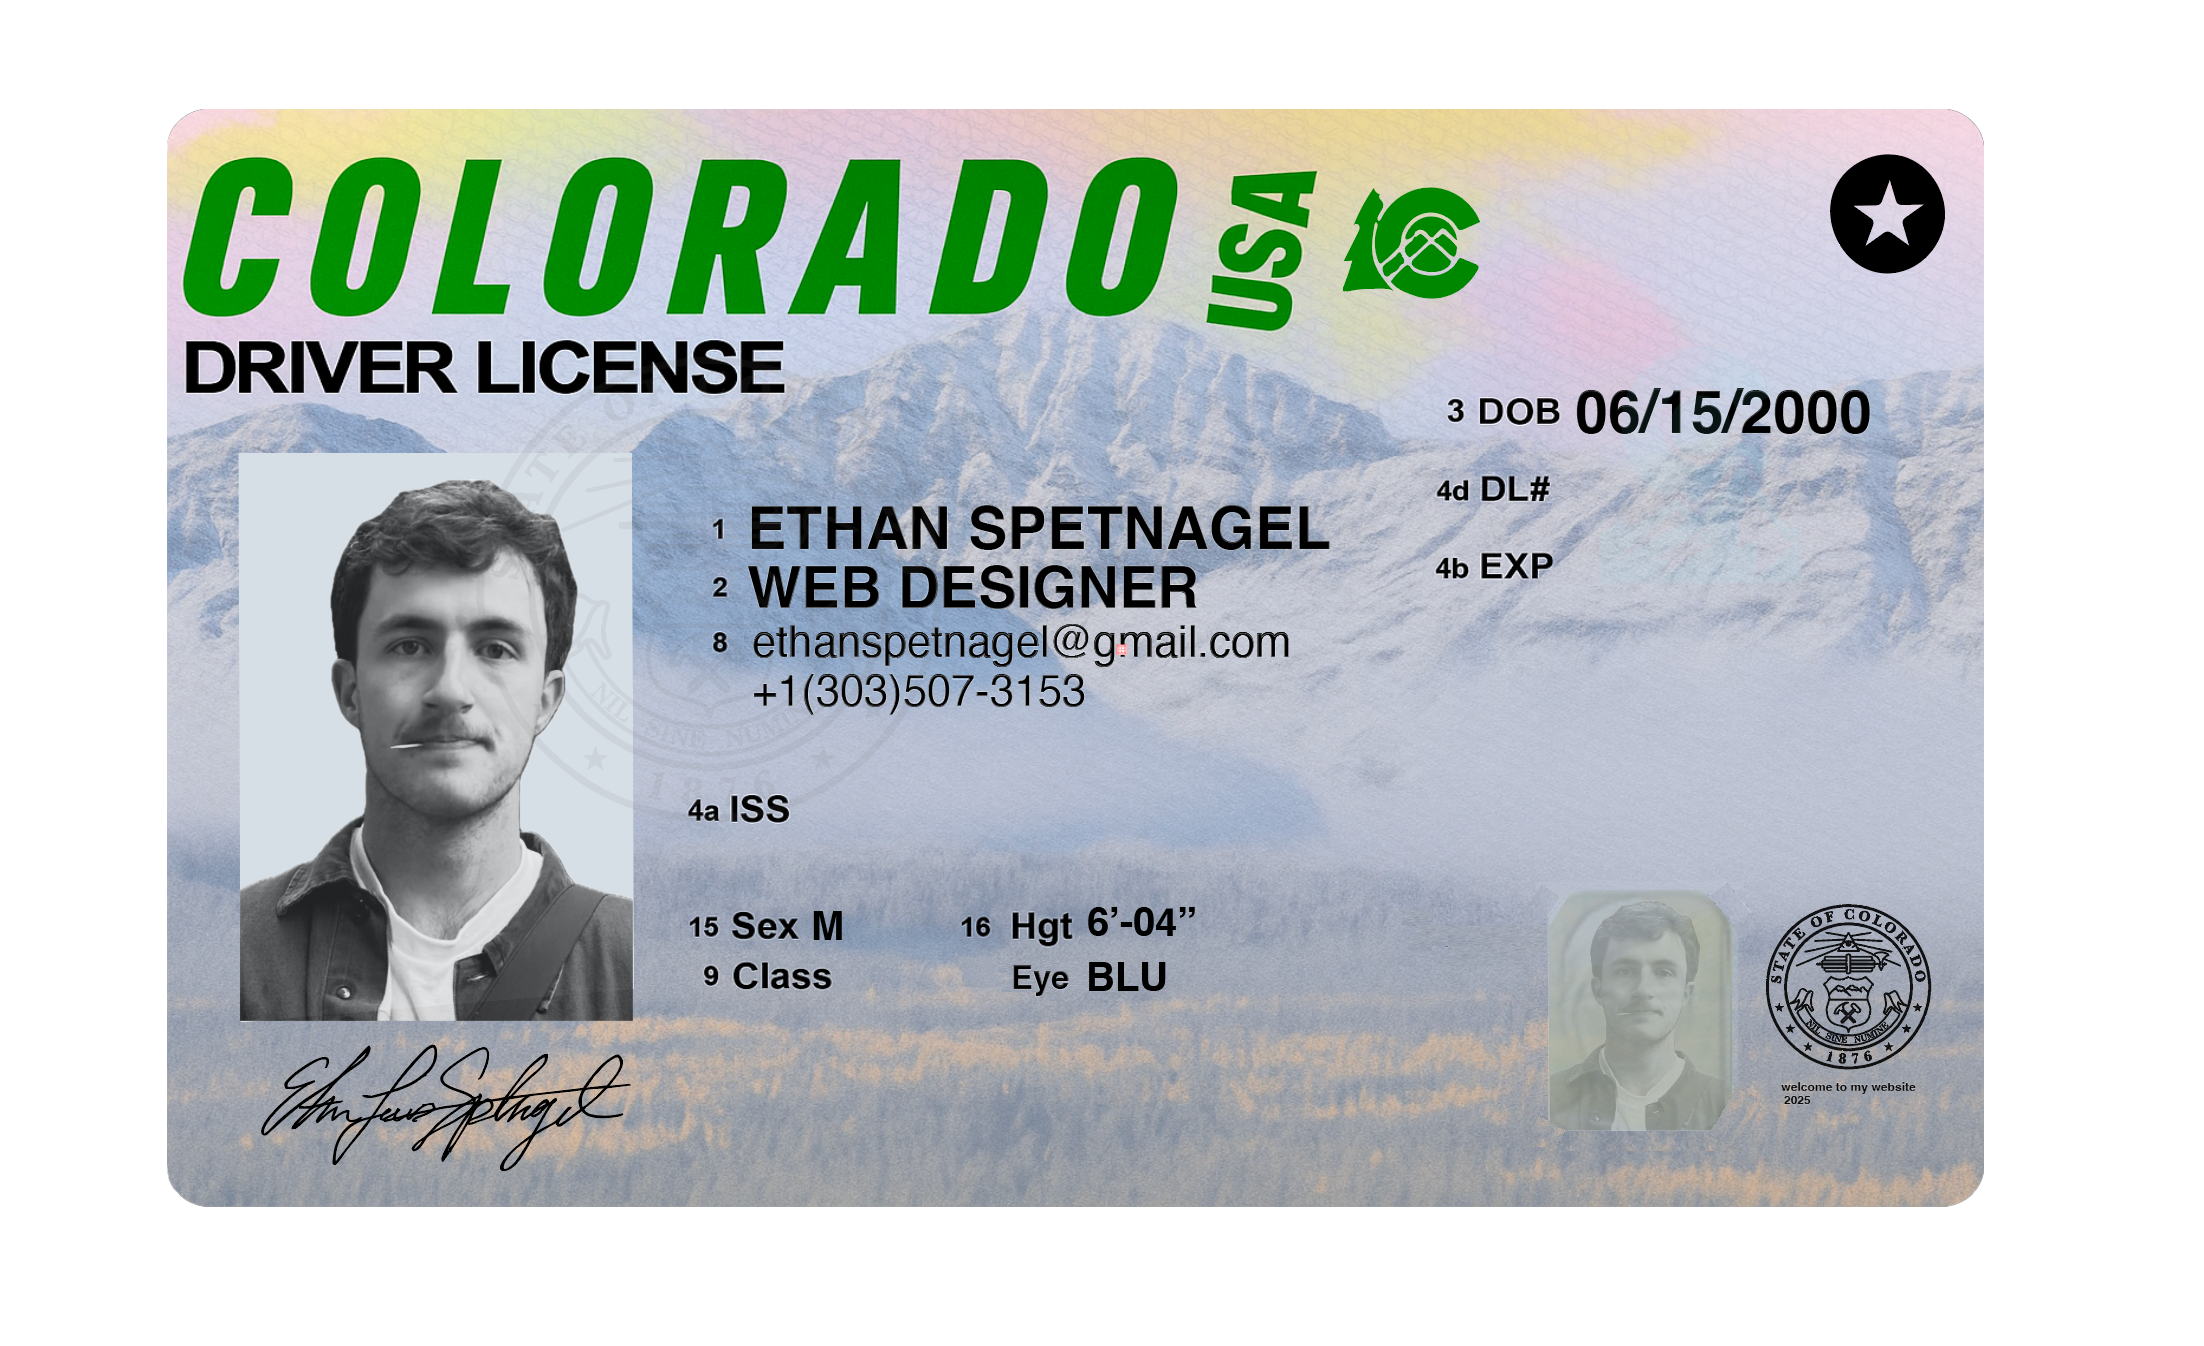
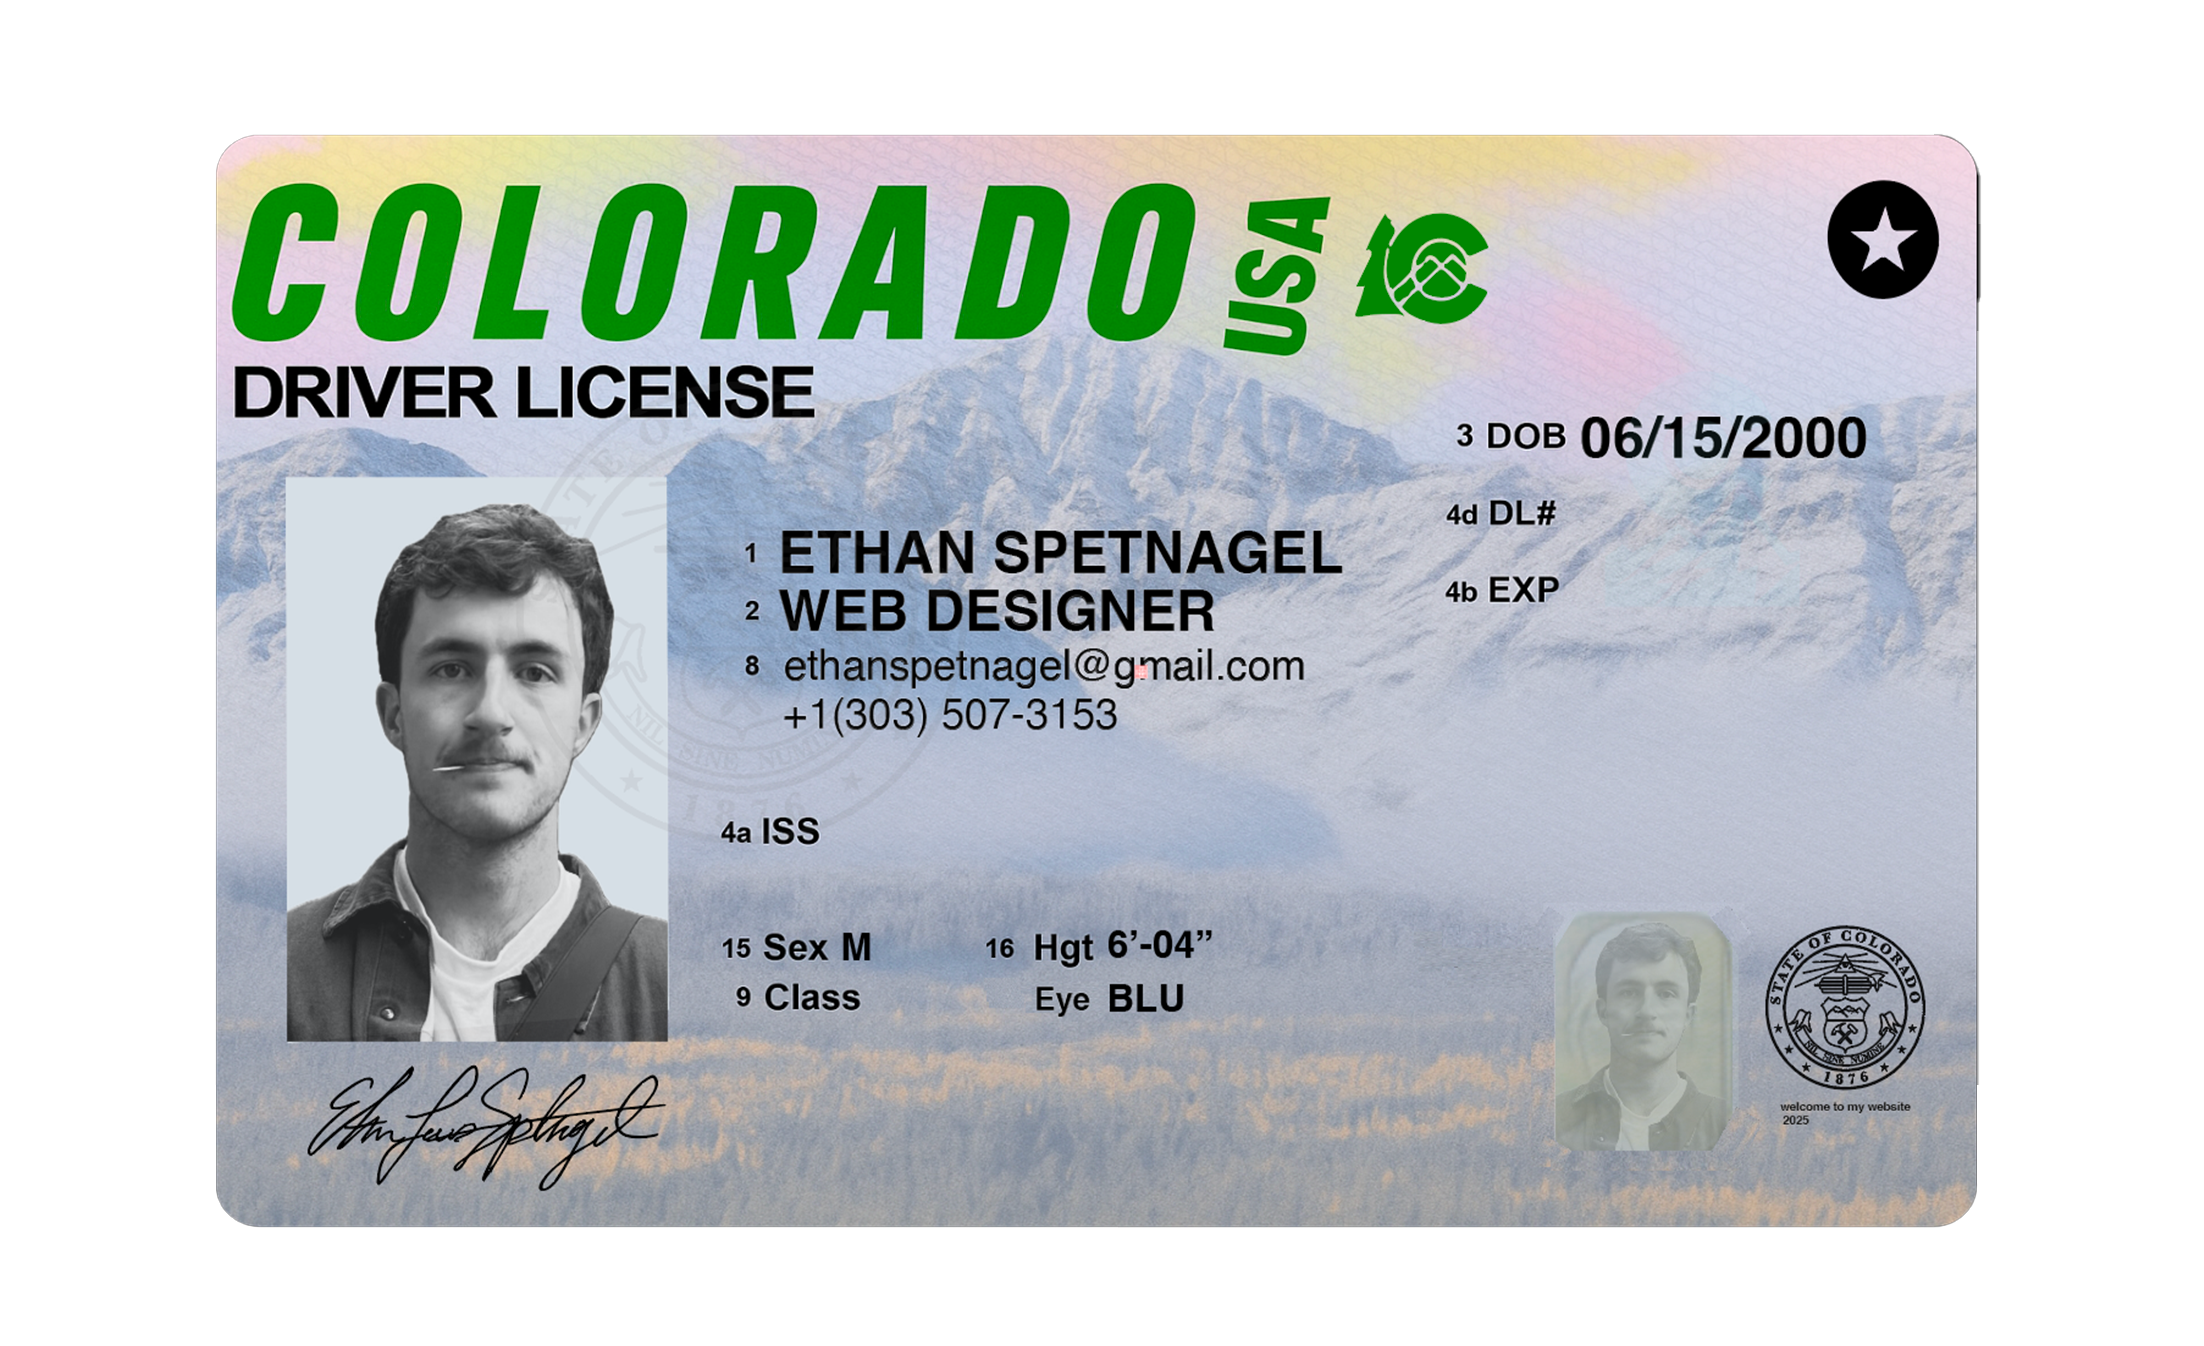
S

Changed region(s): [[0.0617, 0.0624, 0.9256, 0.9361], [0.7096, 0.6553, 0.8022, 0.7489], [0.7713, 0.4368, 0.8022, 0.4993]]

diff --git a/style.css b/style.css
@@ -178,13 +178,14 @@ body.page-navigating * {
 
 .profile-image {
     position: relative;
-    width: 45vh;
-    height: 30vh;
+    width: clamp(200px, 50vh, 405px);
+    height: clamp(140px, 35vh, 270px);
+    margin-top: clamp(90px, 45vh, 290px);
+    margin-bottom: 25px;
     background-image: url('id.png');
     background-position: center;
     background-size: contain;
-    background-repeat: no-repeat;
-    margin: 0 0 60px 0; /* Only margin-bottom for spacing below */
+    background-repeat: no-repeat; /* Only margin-bottom for spacing below */
     display: block;
     opacity: 1;
     transition: opacity 0.5s ease-in-out, background-image 0.3s;
@@ -208,7 +209,7 @@ body.page-navigating * {
     opacity: 0;
     transition: opacity 0.5s ease-in-out;
     line-height: 1.3;
-    margin-bottom: 20px;
+    margin-bottom: 5px;
     margin-top: 0;
     text-align: center;
     margin-left: auto;
@@ -241,13 +242,13 @@ body.page-navigating * {
 }
 
 .about-text p {
-    margin: 0 0 12px 0;
+    margin: 0 0 10px 0;
     line-height: 1.3;
     font-size: 15px;
 }
 
 .about-text p:last-of-type {
-    margin-bottom: 20px;
+    margin-bottom: 10px;
 }
 
 .first-section .contact-links {
@@ -503,8 +504,9 @@ body.june-hover .main-title p,
 body.june-hover .about-text p,
 body.june-hover .top-contacts a,
 body.june-hover .resume-download,
+body.june-hover .arrow-image,
 body.june-hover .date-text {
-    color: #d9d9d9 !important;
+    color: #d92020 !important;
     text-shadow: none;
 }
 
@@ -1188,3 +1190,4 @@ body.transitioning {
     color: #34312e !important;
     padding: 0;
 }
+

diff --git a/index.html b/index.html
@@ -24,7 +24,7 @@
         <div class="background-overlay"></div>
         <div class="profile-image" style="background-image: url('id.png');"></div>
         <div class="main-title">
-            <p>ETHAN SPETNAGEL IS AN INTERDISCIPLINARY DESIGNER LIVING IN QUEENS, NEW YORK.</p>
+            <p>ETHAN SPETNAGEL IS AN INTERDISCIPLINARY DESIGNER BASED IN QUEENS, NEW YORK.</p>
         </div>
         <div class="about-text">
             <p>
@@ -33,9 +33,7 @@
                 an artisanal soap brand where he led everything from product development to digital branding.
             </p>
             <p>
-                Currently, Ethan is a Design & Fulfillment Manager at
-                <a href="ethanspetnagel.online/church/church" target="_blank" data-bio="church-company"><i>Church California</i></a>,
-                an all-natural skincare and grooming brand.
+               Currently, Ethan is a Design & Fulfillment Manager at <a href="ethanspetnagel.online/church/church" target="_blank" data-bio="church-company"><i>Church California</i></a>, an all-natural skincare and grooming brand, and a freelance designer working with clients across healthcare, legal, consumer goods, and the arts.
             </p>
             <div class="contact-links">
                 <a href="mailto:ethanspetnagel@gmail.com">email</a>
